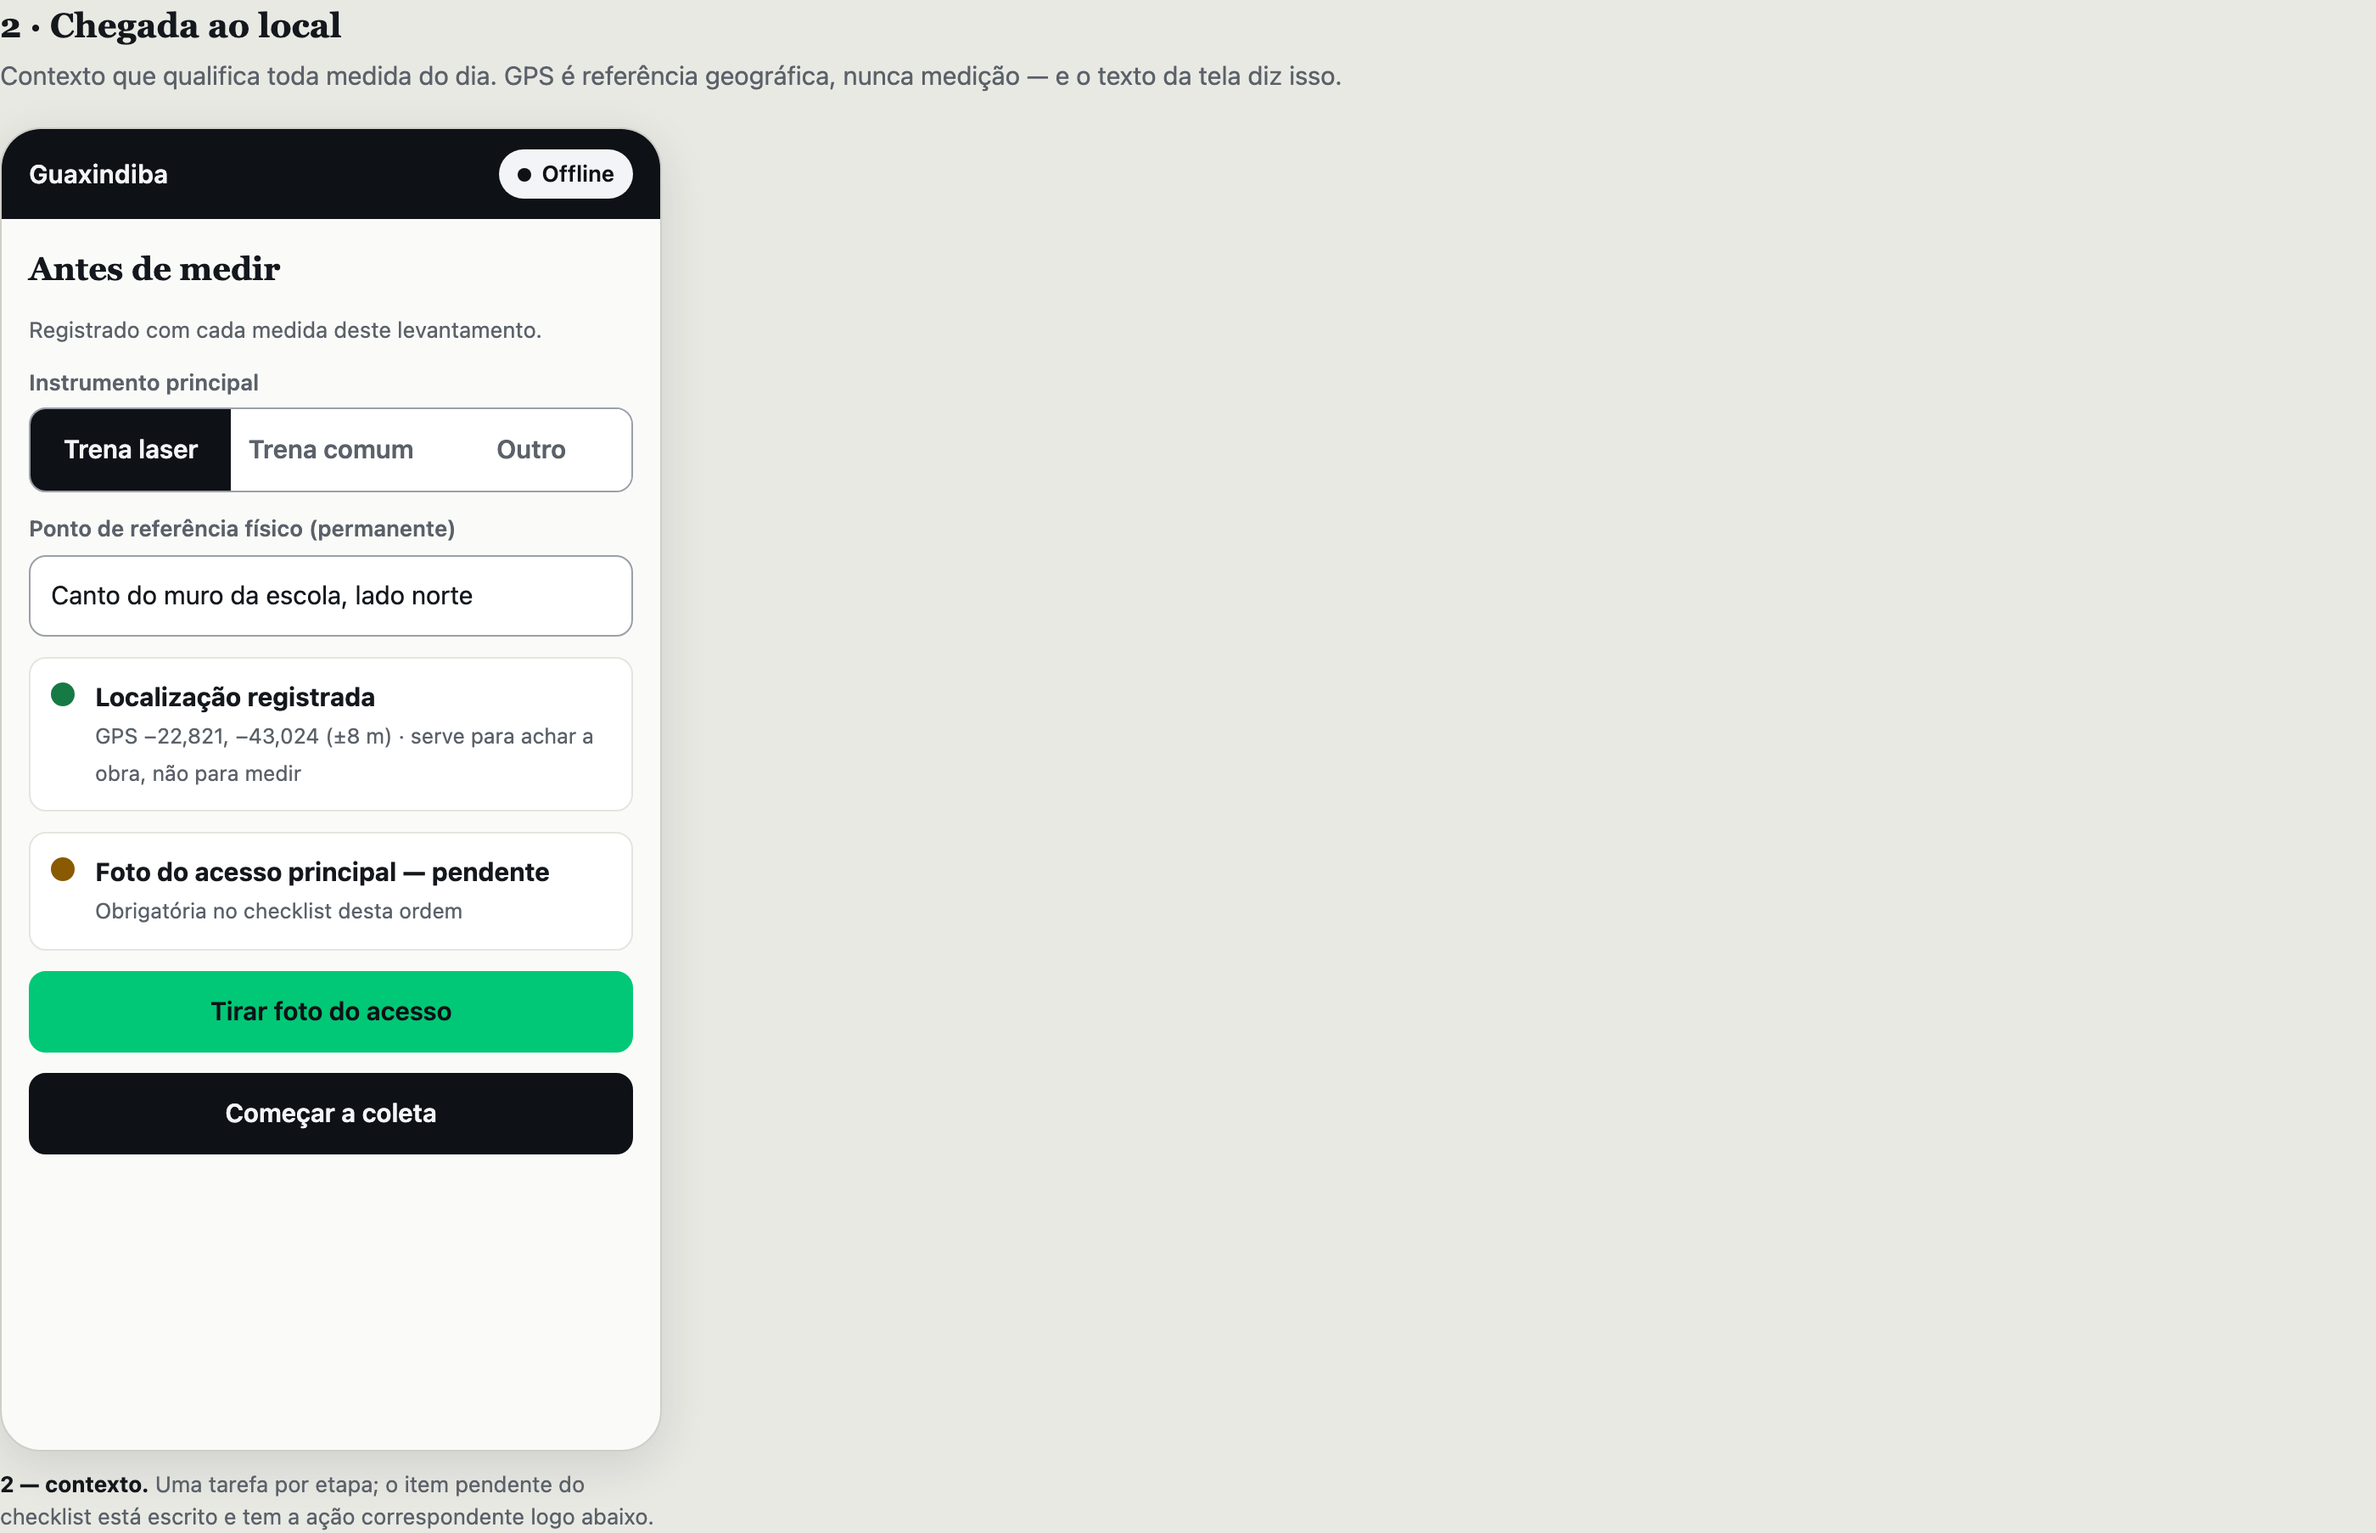
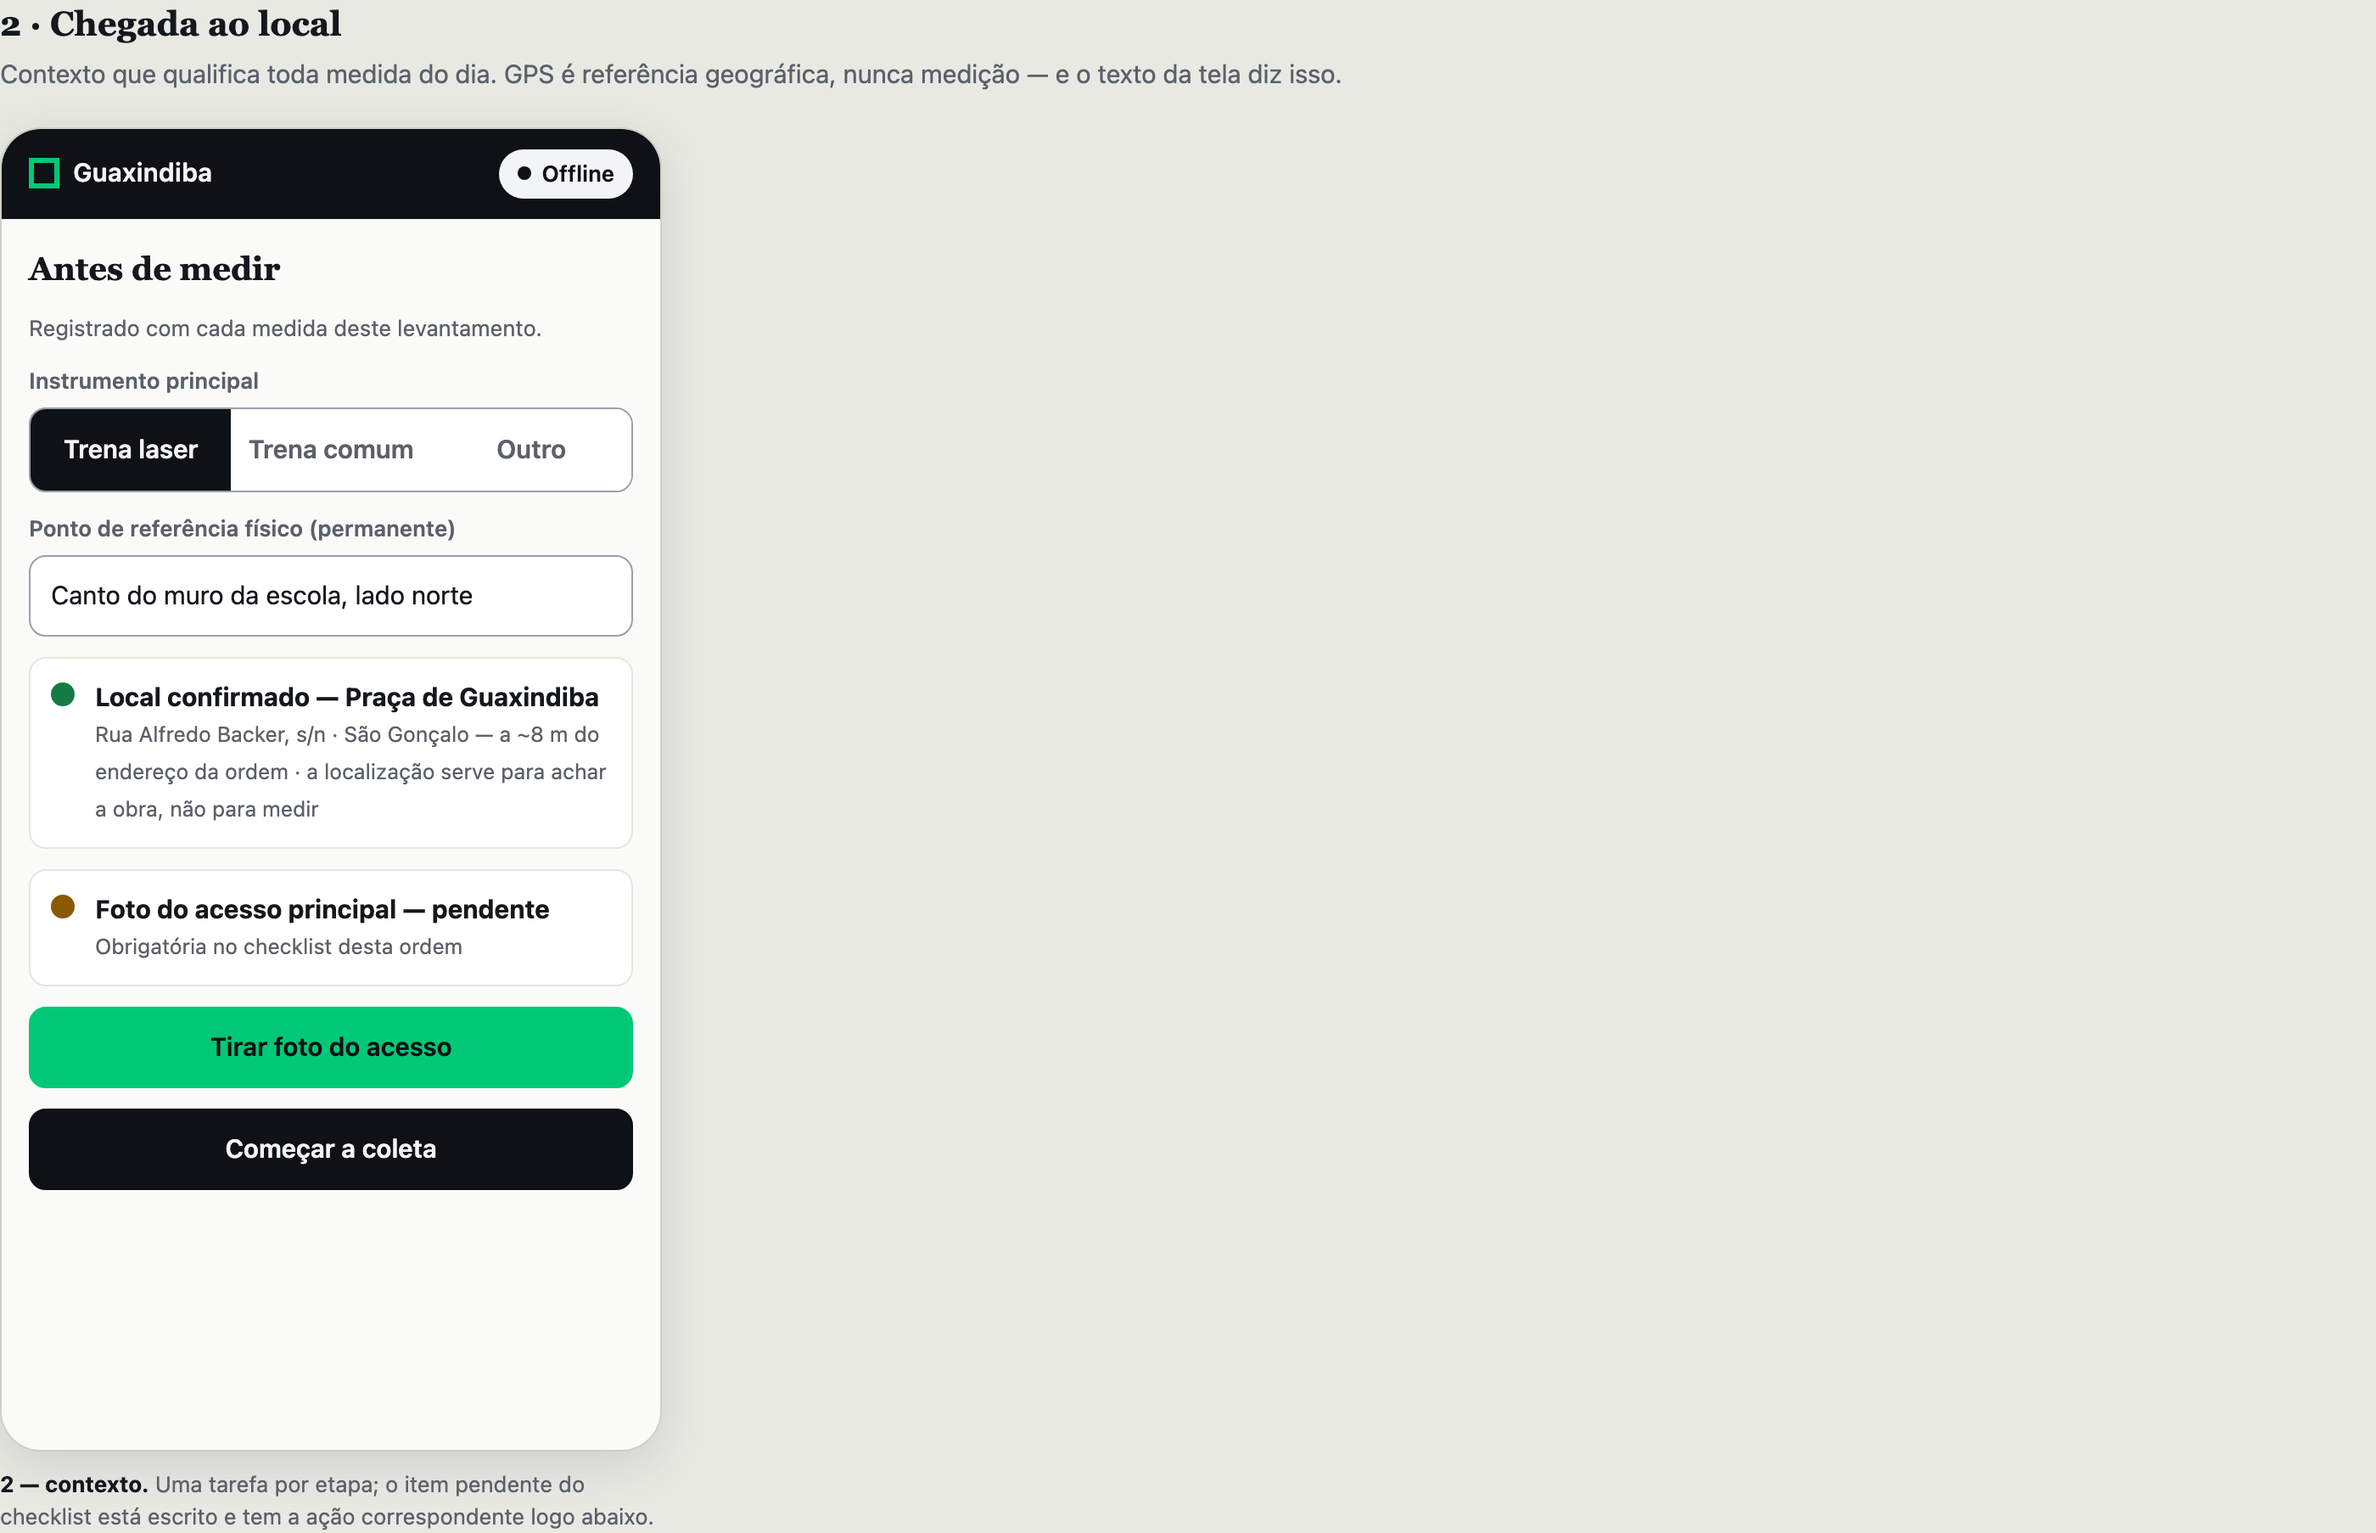
docs(F-032): ajustes da DAP rev.2 pedidos pelo usuário — marca do croquito na barra de todas as telas e endereço da ordem no lugar de coordenadas na chegada; T17 registrada como PLAN_DEVIATION

diff --git a/docs/features/F-032-app-levantamento-campo/mock/campo.html b/docs/features/F-032-app-levantamento-campo/mock/campo.html
@@ -89,8 +89,15 @@
     display: flex; align-items: center; gap: var(--s-3);
     padding: var(--s-3) var(--s-4); min-height: 52px;
   }
-  .appbar .brand { font-weight: 600; letter-spacing: .01em; }
+  .appbar .brand { font-weight: 600; letter-spacing: .01em; display: inline-flex; align-items: center; gap: 8px; }
   .appbar .brand small { color: var(--dark-ink-soft); font-weight: 400; }
+  /* A marca do croquito (o quadrado de traço verde do wordmark,
+     apps/web/src/assets/croquito-logo*.svg) acompanha o nome em toda tela —
+     ajuste pedido pelo usuário em 2026-08-21 (revisão 2). */
+  .appbar .brand::before {
+    content: ""; width: 12px; height: 12px; flex-shrink: 0;
+    background: var(--dark); border: 3px solid var(--accent);
+  }
   .appbar .spacer { flex: 1; }
   .pill {
     border-radius: var(--r-pill); padding: 4px 10px; font-size: var(--fs-label);
@@ -312,8 +319,9 @@
             <div class="input">Canto do muro da escola, lado norte</div>
           </div>
           <div class="check ok"><span class="state"></span><div class="txt">
-            <b>Localização registrada</b>
-            <small>GPS −22,821, −43,024 (±8 m) · serve para achar a obra, não para medir</small>
+            <b>Local confirmado — Praça de Guaxindiba</b>
+            <small>Rua Alfredo Backer, s/n · São Gonçalo — a ~8 m do endereço da ordem ·
+            a localização serve para achar a obra, não para medir</small>
           </div></div>
           <div class="check warn"><span class="state"></span><div class="txt">
             <b>Foto do acesso principal — pendente</b>

diff --git a/docs/features/F-032-app-levantamento-campo/mock/README.md b/docs/features/F-032-app-levantamento-campo/mock/README.md
@@ -27,7 +27,7 @@ nova e precisa de registro próprio.
 
 | Campo | Valor |
 | --- | --- |
-| O que se pede aprovar | a prancha 7 (3 telas): 7a gravação de nota de voz offline ancorada; 7b aviso não bloqueante de qualidade de foto calculado no aparelho; 7c painel de sincronização com categorias de áudio, estado de transcrição e nota sobre análise de fotos no servidor |
+| O que se pede aprovar | a prancha 7 (3 telas): 7a gravação de nota de voz offline ancorada; 7b aviso não bloqueante de qualidade de foto calculado no aparelho; 7c painel de sincronização com categorias de áudio, estado de transcrição e nota sobre análise de fotos no servidor — MAIS dois ajustes pedidos pelo usuário em 2026-08-21: (a) a marca do croquito (quadrado de traço verde do wordmark) acompanha o nome na barra de TODAS as telas (toque aditivo nas pranchas 1–6 aprovadas); (b) a chegada (prancha 2) mostra local/endereço vindos da ordem em vez de coordenadas — as coordenadas continuam guardadas como dado, nunca exibidas |
 | Motivação | escopo reaberto por decisão humana de 2026-08-21 (itens 8–9 do [Feature Contract](../feature.md)); tarefas T12/T15 do [plan-sync.md](../plan-sync.md) só iniciam a parte de UI após esta aprovação |
 | Aprovado por | — (pendente) |
 | Data | — |

diff --git a/docs/features/F-032-app-levantamento-campo/plan-sync.md b/docs/features/F-032-app-levantamento-campo/plan-sync.md
@@ -213,5 +213,12 @@ nomeados; nenhum requisito dos itens 7–10 do Feature Contract sem dono.
 
 ## PLAN_DEVIATION
 
-(nenhum até o momento; a relinearização da migração 0007×F-029 será registrada aqui
-quando a integração com a main acontecer)
+- 2026-08-21 — Ajustes da DAP rev.2 pedidos pelo usuário (marca do croquito na
+  barra de todas as telas; chegada mostra local/endereço da ordem em vez de
+  coordenadas): aplicados no caderno de mocks e registrados como tarefa pequena
+  nova **T17** (aplicar os dois ajustes no app real — `AppBar`, `ArrivalScreen`,
+  e trocar o ícone PWA placeholder de `apps/field/public/icon.svg` pela marca),
+  a executar na onda da rev.2 junto de T12/T15. Impacto: nenhum nas tarefas já
+  entregues; o plano ganha uma tarefa XS sem dependências além da aprovação da
+  rev.2.
+- (prevista) Relinearização da migração 0007×F-029 na integração com a main.
